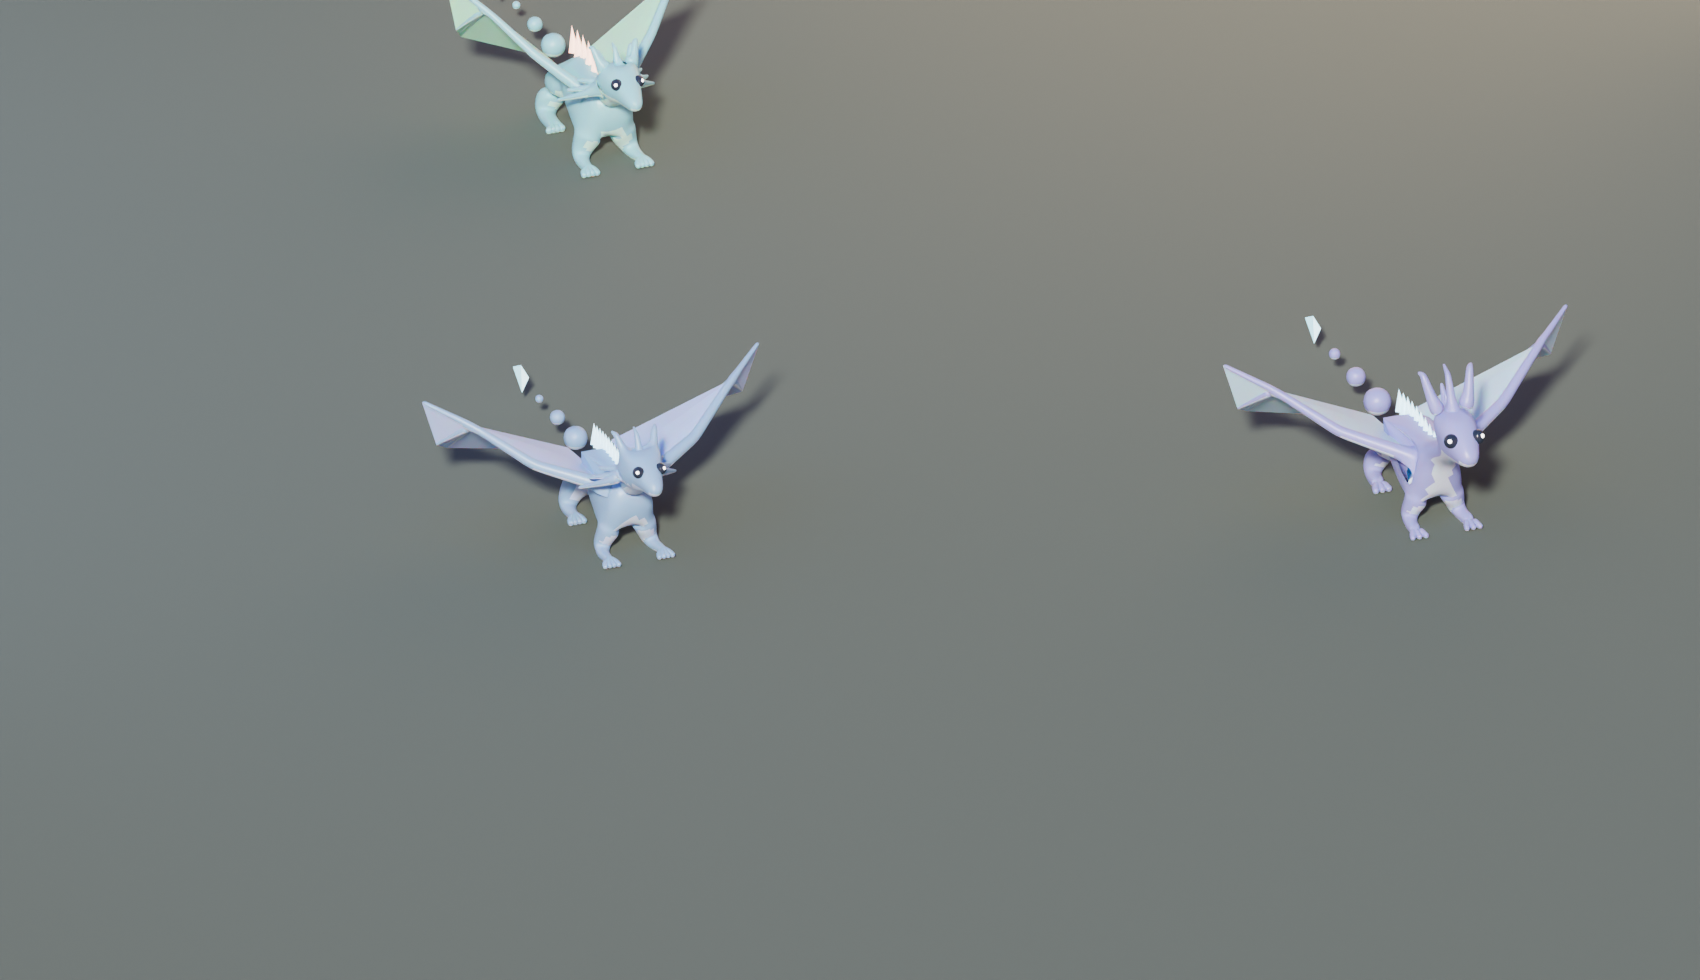
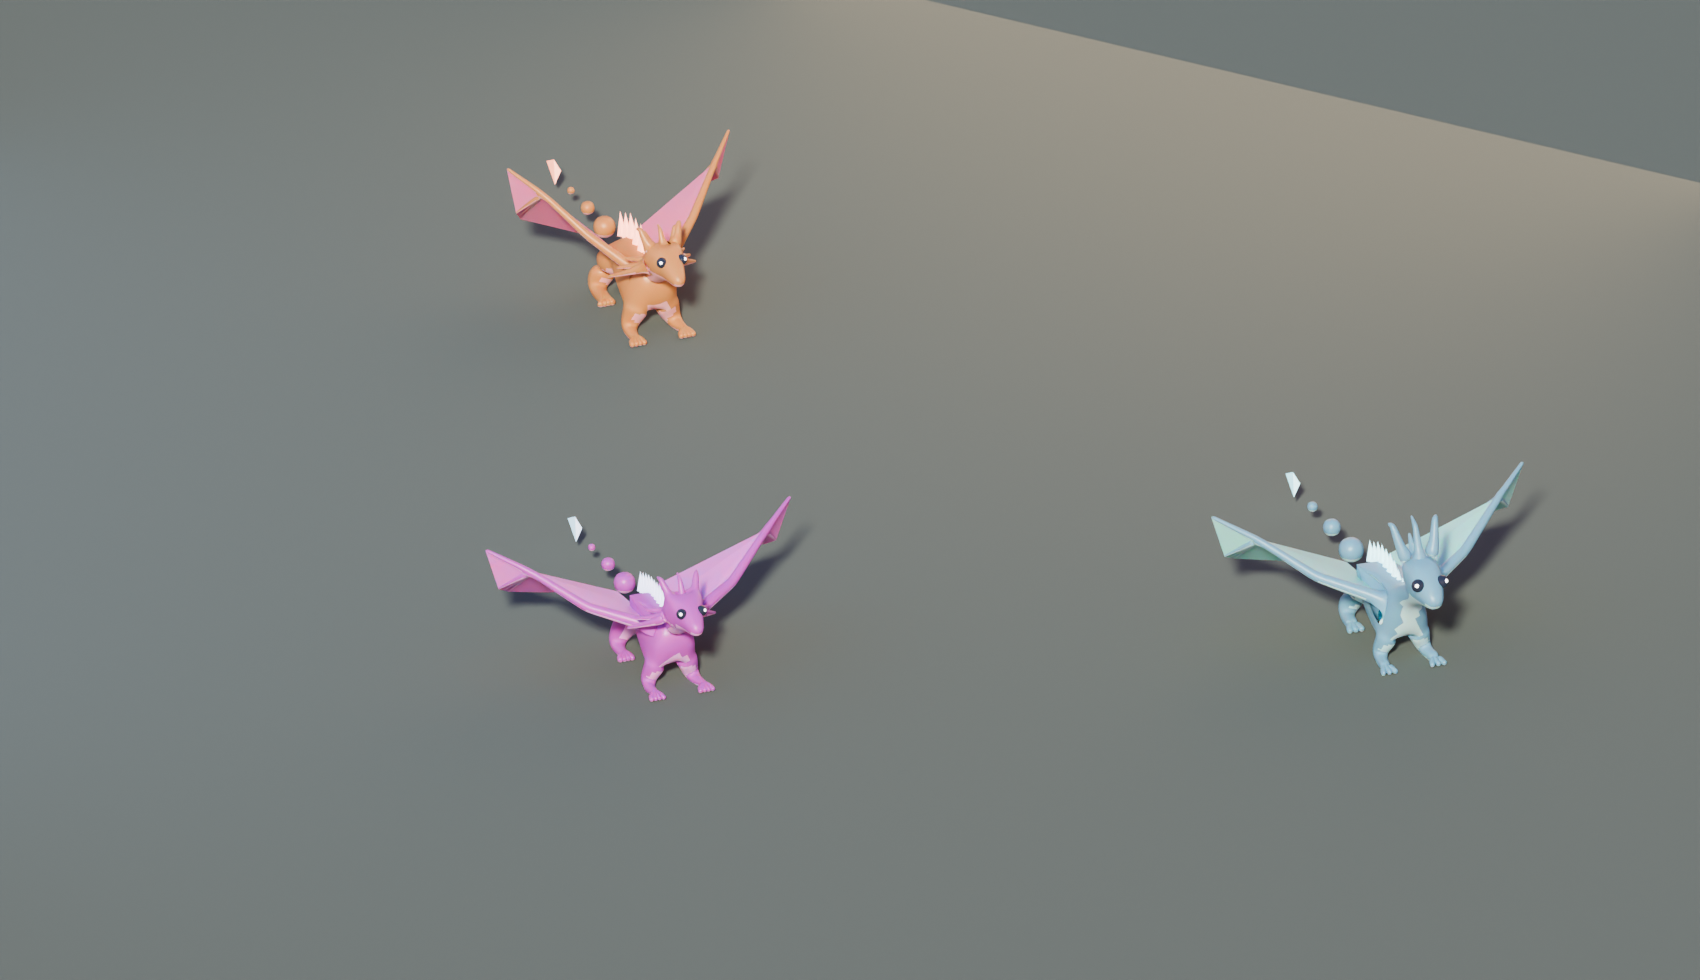
fix(genome): inherit hue along the colour wheel's short arc
Hue is a circular value. Blending it linearly made an ember parent (hue 0.06,
red) crossed with a tide parent (hue 0.57, blue) produce a child at 0.315 —
green — resembling neither parent. That is precisely the failure the
gameplay-critic's G2 line in docs/RUBRIC.md exists to catch, and the first
breeding render caught it before any runtime code was written.

Co-dominant hue now blends along the shortest arc:
  d = ((b - a + 0.5) mod 1) - 0.5 ;  mean = (a + d/2) mod 1
The same pair yields 0.815, a violet. Mutation on a circular gene wraps
instead of clamping.

Genes are now typed f/i/e/c, with c reserved for angles and wheel positions.
Documented in docs/GENOME.md and recorded in STATE.md. Concept renders
regenerated.

Claude-Session: https://claude.ai/code/session_013SGCFWqzzqg7W8sm5NRZSn

diff --git a/assetgen/genome.py b/assetgen/genome.py
@@ -66,7 +66,7 @@ GENES: Dict[str, Tuple[float, float, str]] = {
     "spineCount":    (4, 14, "i"),
     "spineHeight":   (0.40, 1.60, "f"),
     # surface
-    "hue":           (0.00, 1.00, "f"),
+    "hue":           (0.00, 1.00, "c"),   # circular: 0.99 and 0.01 are neighbours
     "hueShift":      (-0.22, 0.22, "f"),   # belly/membrane offset from base hue
     "saturation":    (0.35, 1.00, "f"),
     "value":         (0.28, 0.92, "f"),
@@ -81,6 +81,19 @@ PATTERNS  = ["plain", "banded", "mottled", "gradient", "iridescent"]
 # Mutation rate per gene, per breeding. Rare genes mutate less so they stay rare.
 MUTATION_RATE = 0.06
 MUTATION_SPREAD = 0.14   # fraction of the gene's range
+
+def circ_mean(a: float, b: float) -> float:
+    """Mean of two hues on the colour wheel, taking the SHORT arc.
+
+    Averaging hue linearly is wrong and very visible: red (0.06) crossed with blue (0.57)
+    averages to 0.315, which is green — a child that resembles neither parent. The short
+    arc gives 0.815, a violet, which is what a red x blue cross should look like.
+    """
+    d = ((b - a + 0.5) % 1.0) - 0.5
+    return (a + d * 0.5) % 1.0
+
+def circ_clamp(v: float) -> float:
+    return v % 1.0
 
 @dataclass
 class Allele:
@@ -98,10 +111,12 @@ class Genome:
     # ---------- expression ----------
     def express(self, name: str) -> float:
         a, b = self.g[name]
+        lo, hi, kind = GENES[name]
         if a.dominant and not b.dominant: v = a.value
         elif b.dominant and not a.dominant: v = b.value
+        elif kind == "c": return circ_clamp(circ_mean(a.value, b.value))
         else: v = (a.value + b.value) * 0.5          # co-dominant → blend
-        lo, hi, kind = GENES[name]
+        if kind == "c": return circ_clamp(v)
         v = min(max(v, lo), hi)
         return round(v) if kind in ("i", "e") else v
 
@@ -120,7 +135,7 @@ class Genome:
         """0..1. Extremes and hidden elements are what collectors chase."""
         p = self.phenotype; score = 0.0
         for k, (lo, hi, kind) in GENES.items():
-            if kind != "f": continue
+            if kind not in ("f",): continue
             t = (p[k] - lo) / (hi - lo)
             score += abs(t - 0.5) * 2            # distance from the average
         score /= sum(1 for _, (_, _, k) in GENES.items() if k == "f")
@@ -195,7 +210,8 @@ def breed(a: Genome, b: Genome, seed: int) -> Genome:
         pair = [Allele(from_a.value, from_a.dominant), Allele(from_b.value, from_b.dominant)]
         for al in pair:
             if r.chance(MUTATION_RATE):
-                al.value = min(max(al.value + r.range(-1, 1) * (hi - lo) * MUTATION_SPREAD, lo), hi)
+                nv = al.value + r.range(-1, 1) * (hi - lo) * MUTATION_SPREAD
+                al.value = circ_clamp(nv) if kind == "c" else min(max(nv, lo), hi)
             if r.chance(MUTATION_RATE * 0.5):
                 al.dominant = not al.dominant
         child.g[k] = pair

diff --git a/STATE.md b/STATE.md
@@ -24,6 +24,15 @@ ship nothing — a run with no entry is indistinguishable from a run that never 
 - Wrote the harness: `CLAUDE.md`, 12 agent definitions, the rubric, the roadmap, and
   gates for layers, determinism, assets, parity, mesh-gen time, performance and smoke.
 
+**Defect found and fixed during the proof**
+
+- **Hue inherited linearly instead of circularly.** Hue is a wheel position, so averaging
+  an ember parent (0.06, red) with a tide parent (0.57, blue) gave 0.315 — green — and the
+  child resembled neither parent. Fixed by blending co-dominant hue along the short arc;
+  the same pair now gives 0.815, a violet. Documented in `docs/GENOME.md` §Circular genes.
+  Worth noting that the `gameplay-critic` G2 line in `docs/RUBRIC.md` was written to catch
+  exactly this, and it did, before any runtime code existed.
+
 **Defects carried forward** (found during the proof, not yet fixed)
 
 - Tail ornaments read as detached specks on some genomes — the attachment point does not
@@ -33,6 +42,15 @@ ship nothing — a run with no entry is indistinguishable from a run that never 
 - Colours wash out under AgX + the current fill light; the lighting rig needs rebalancing
   before it becomes the reference bar.
 - `proof_breeding.png` framing still crops the top parent on some layouts.
+
+**Scheduling blocker**
+
+- The 2×/day routine (`trig_012oAnWHVszEghmZMUhShCXo`) was created and test-fired. Its
+  fresh sessions can clone the public repo but **cannot push**: the git proxy returns 403
+  because `vtpqui3009/dragonvein` is not in the routine's source list, and `create_trigger`
+  exposes no parameter to set sources. The test run correctly refused to do a milestone it
+  could not push. Until the repo is attached to the routine, every scheduled run will stop
+  at bootstrap.
 
 **Next**: M0 — toolchain and deploy spine. `npm run gates` green, CI green, Pages serving
 the placeholder island.

diff --git a/docs/GENOME.md b/docs/GENOME.md
@@ -47,12 +47,34 @@ express(gene):
 | crestType | none/frill/fin/antler | e | skull crest geometry |
 | spineCount | 4–14 | i | dorsal spike count |
 | spineHeight | 0.40–1.60 | f | dorsal spike height |
-| hue | 0.00–1.00 | f | base scale hue |
+| hue | 0.00–1.00 | **c** | base scale hue — circular, see below |
 | hueShift | −0.22–0.22 | f | belly and membrane offset |
 | saturation | 0.35–1.00 | f | |
 | value | 0.28–0.92 | f | |
 | pattern | plain/banded/mottled/gradient/iridescent | e | surface shader |
 | glow | 0.00–1.00 | f | emission on horns and spikes |
+
+## Circular genes
+
+`hue` is marked kind `c`. It is a position on a colour wheel, where 0.99 and 0.01 are
+neighbours, so it must never be averaged linearly.
+
+This was a real defect, caught by the first breeding render. An ember parent (hue 0.06,
+red) crossed with a tide parent (hue 0.57, blue) produced a child at `(0.06 + 0.57) / 2 =
+0.315` — **green**. The child resembled neither parent, which is exactly the failure the
+`gameplay-critic`'s G2 line exists to catch.
+
+Co-dominant hue blends along the **short arc** instead:
+
+```
+d = ((b - a + 0.5) mod 1.0) - 0.5     # shortest signed distance on the wheel
+mean = (a + d / 2) mod 1.0
+```
+
+The same pair now yields 0.815, a violet — a colour a red × blue cross should plausibly
+produce. Mutation on a circular gene wraps rather than clamping.
+
+Any future gene that is an angle or a wheel position must be declared `c`.
 
 ## Elements
 
